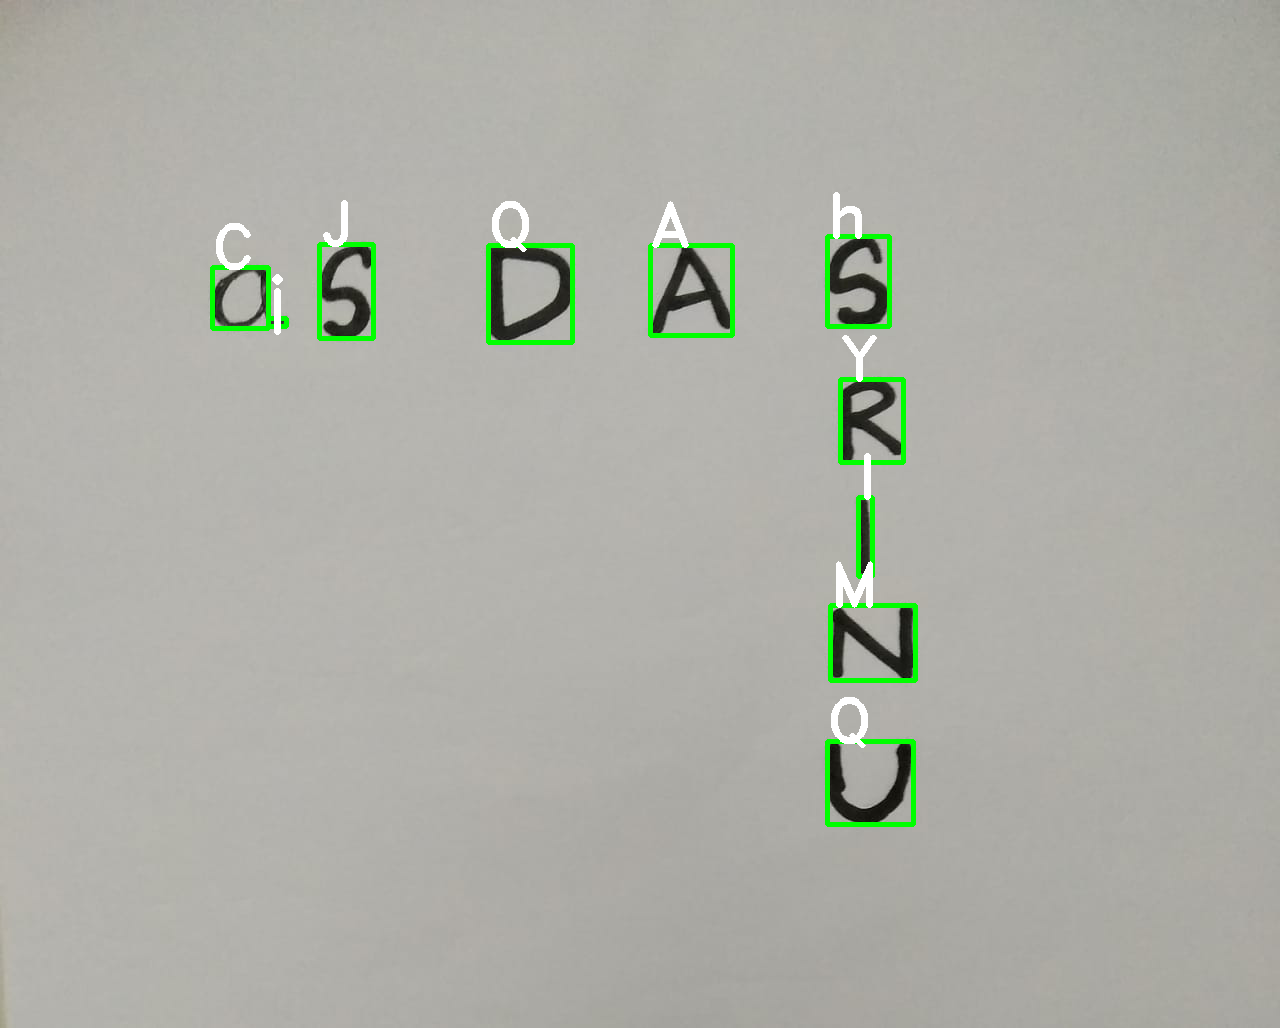
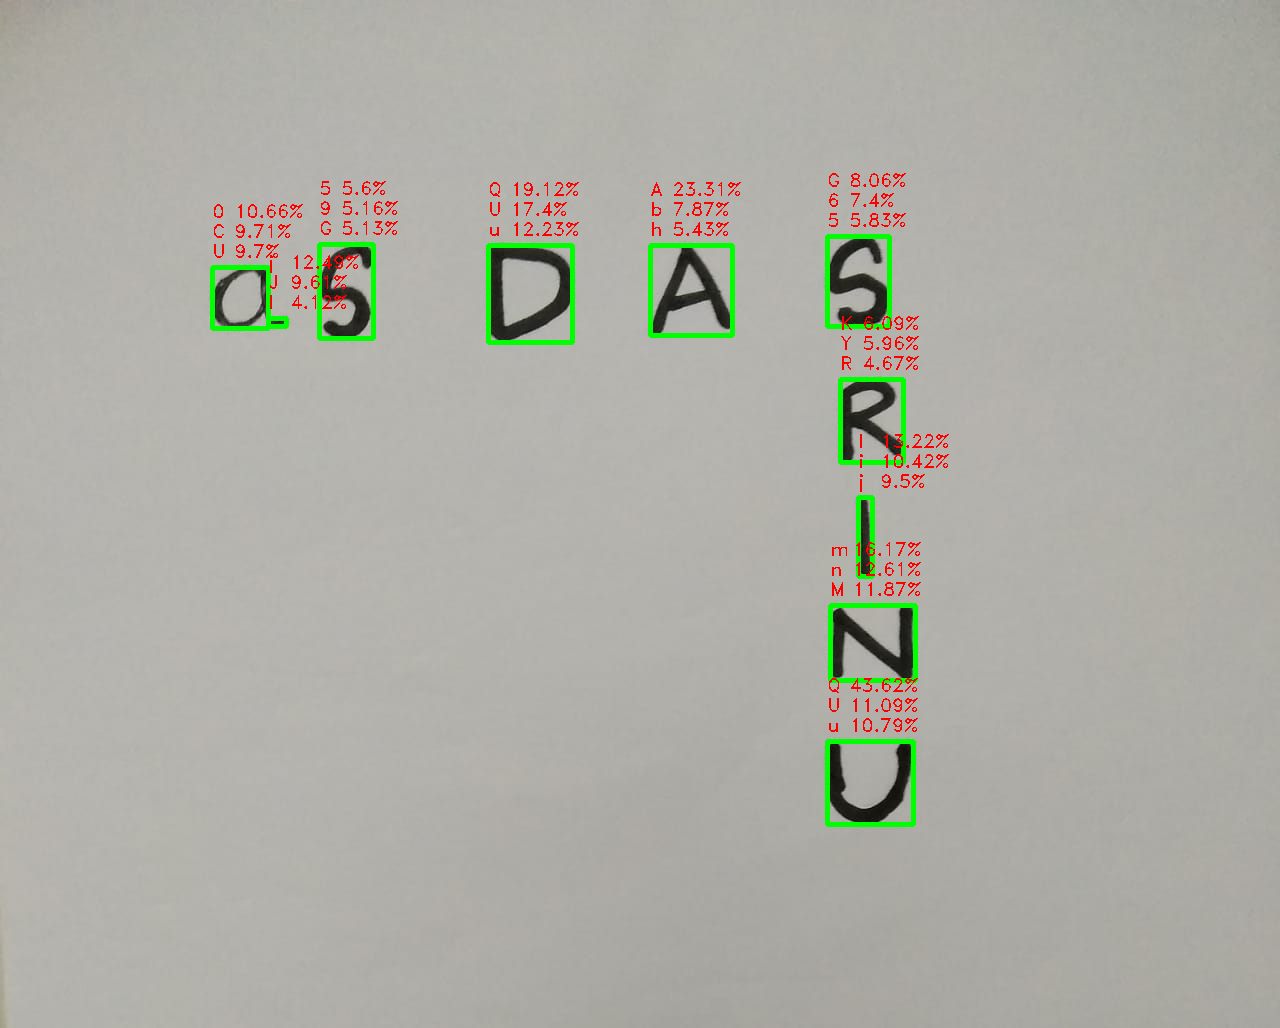
Add files via upload

diff --git a/project_test.py b/project_test.py
@@ -6,7 +6,7 @@ from sklearn import preprocessing
 from sklearn.decomposition import PCA
 
 clf = joblib.load("digits_cls.pkl")
-print(clf)
+#print(clf)
 flat_data = []
 
 img = cv2.imread("target.jpeg")
@@ -27,11 +27,9 @@ for ctr in ctrs:
 
 cv2.imwrite("target_example_bnw.png",img_bnw)
 
-#print(rects)
 scaler = preprocessing.MinMaxScaler()
-i=1
+
 for rect in rects:
-    #data = flat_data
     cv2.rectangle(img,(rect[0],rect[1]),(rect[0] + rect[2],rect[1] + rect[3]),(0,255,0),3)
     leng = int(rect[3] * 1.6)
     pt1 = int(rect[1] + rect[3] // 2 - leng // 2)
@@ -39,10 +37,9 @@ for rect in rects:
     roi = img_bnw[pt1:pt1+leng, pt2:pt2+leng]
 
     roi = cv2.resize(roi,(28,28),interpolation=cv2.INTER_AREA)
-#    roi = np.asarray(roi)
     cv2.imwrite("yo.png",roi)
     flat_data.append(roi.flatten())
-    i = i + 1
+
 
 flat_data = np.asarray(flat_data)
 
@@ -52,61 +49,31 @@ data = scaler.fit_transform(flat_data)
 #data = pca.fit_transform(data)
 #print("PCA complete")
 
-i = 0
-#data = data[-len(rects):]
-#print(data)
-#label = clf.predict(data)
+
+#stores the prediction probabilties of each character in label
+#label size depends on the number of characters scanned in target and each has probability for 62 characters
+
 label = clf.predict_proba(data)
 
-#sort in descending and find highest 3 probabilities
-"""
-top3label=np.zeros(shape=(10,3))
-for i in range(len(label)):
-    label[i].sort()
-    label[i]=label[i][::-1]
-    top3label[i]=label[i][:3]
+#print classes
+#print(clf.classes_)
 
-
-prob_per_class_dictionary=[]
-for i in range(len(label)):
-    prob_per_class_dictionary.append(dict(sorted(zip(clf.classes_, label[i]))))
-    """
-#print(label)
-#print(top3label)
-print(clf.classes_)
 labelX=[]
-#print(prob_per_class_dictionary)
+
+#rounding the probabilty values upto 4 places of decimal and storing in another list labelX
 for i in range(len(label)):
     labelX.append([ round(elem,4) for elem in label[i] ])
-    #print(labelX[i])
-#top3label=np.zeros(shape=(30,2))
+
 top3label=[]
 
-label_name_list=[]
-label_proba_list=[]
+#sort in descending and find highest 3 probabilities
+#put the char keys and respective probabilities and zip it
+
 for i in range(len(label)):
     view=sorted(zip(clf.classes_, labelX[i]), key= lambda x: x[1], reverse=True )
-    #print(view[:3])
     top3label.append(list(view[:3]))
-    #labelX=str(top3label[i])
-    #label_name,label_proba=zip(*view[:3])
-#    label_name_list.append(label_name)
-#    label_proba_list.append(label_proba)
-    #label_name.append(zip(*labelX[i]))
 
-"""    for ele in view[:3]:
-        top3label.append(ele)
-        print(ele)
-"""
-print("Rect sklearn {}".format(len(rects)))
-
-for i in range(len(label)):
-    print(top3label[i])
-    print(top3label[i][0][0])
- #  labels_ordered_by_probability = map(lambda x: x[0], sorted(zip(clf.classes_, label[i]), key= lambda x: x[1], reverse=True))
-#print(labels_ordered_by_probability)
-
-i=0
+#print the top 3 predictions for each character of target in terminal
 for rect in rects:
     for j in range(len(top3label[0])):
         for k in range(len(top3label[0][1])):
@@ -114,16 +81,14 @@ for rect in rects:
     print("")
     i=i+1
 
+#print the predictions of top 3 in a output image using cv2.putText
+
 i=0
 x=0
-y=0
 
 for rect in rects:
     y=-50
     for j in range(len(top3label[0])):
-        #for k in range(len(top3label[0][1])):
-            #print(rect[0],end=' ')
-            #print(rect[1])
             cv2.putText(img, str(top3label[i][j][0]), (rect[0], rect[1]+y),cv2.FONT_HERSHEY_DUPLEX, 0.6, (0, 0, 255), 1)
             cv2.putText(img, str(round(top3label[i][j][1]*100,2))+"%", (rect[0]+22, rect[1]+y),cv2.FONT_HERSHEY_DUPLEX, 0.6, (0, 0, 255), 1)
             y +=20
